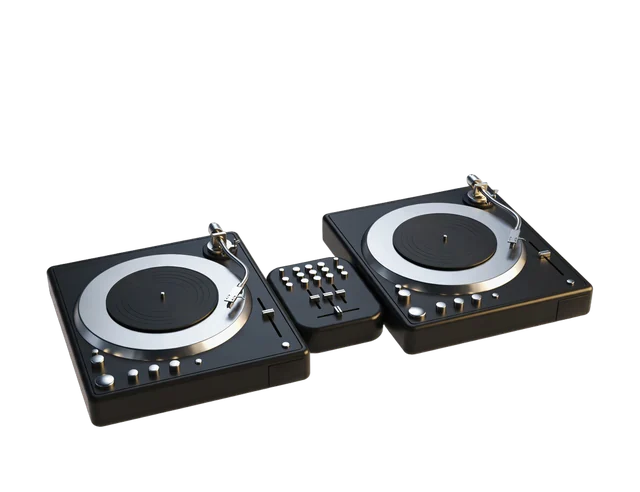
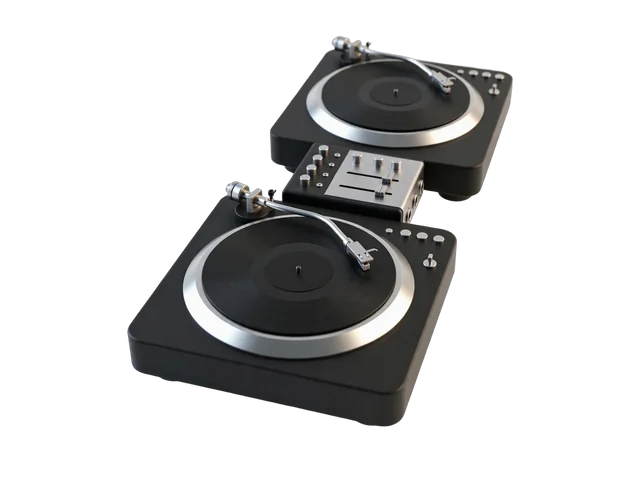
Give the outdoors category more than one idea
"Family Wander" is a walk in a park and it was drawing a canoe, because
outdoors had two drawings for a category that covers ravines, trails, swims,
parks and walks. It now has six: the canoe, the boardwalk, a park bench, a
trail signpost, hiking boots and a birdhouse.

The canoe and the turntables were also the wrong shape. Measured across the
set the median drawing is 0.94 wide to tall — near square — and the canoe was
3.49, filling 28% of its frame against a 42% median, so it read both long and
small among things that do not. Both are re-angled towards the camera so their
length recedes into the picture instead of stretching across it: the canoe is
now 0.82 and the turntables 0.99, and you can see into the hull.

art-streetcar is still 2.98 and stays that way. Its only job is the hero
fallback, which is a landscape slot.

diff --git a/scraped.js b/scraped.js
@@ -432,7 +432,7 @@ const SCRAPED = [
     "id": "evergreen-intro-to-forest-bathing-walk-2026-09-20",
     "title": "Intro to Forest Bathing Walk",
     "category": "dropin",
-    "art": "art-outdoors",
+    "art": "art-bench",
     "venue": "Evergreen Brick Works",
     "address": "550 Bayview Ave, Toronto",
     "url": "https://www.evergreen.ca/evergreen-brick-works/whats-on/",
